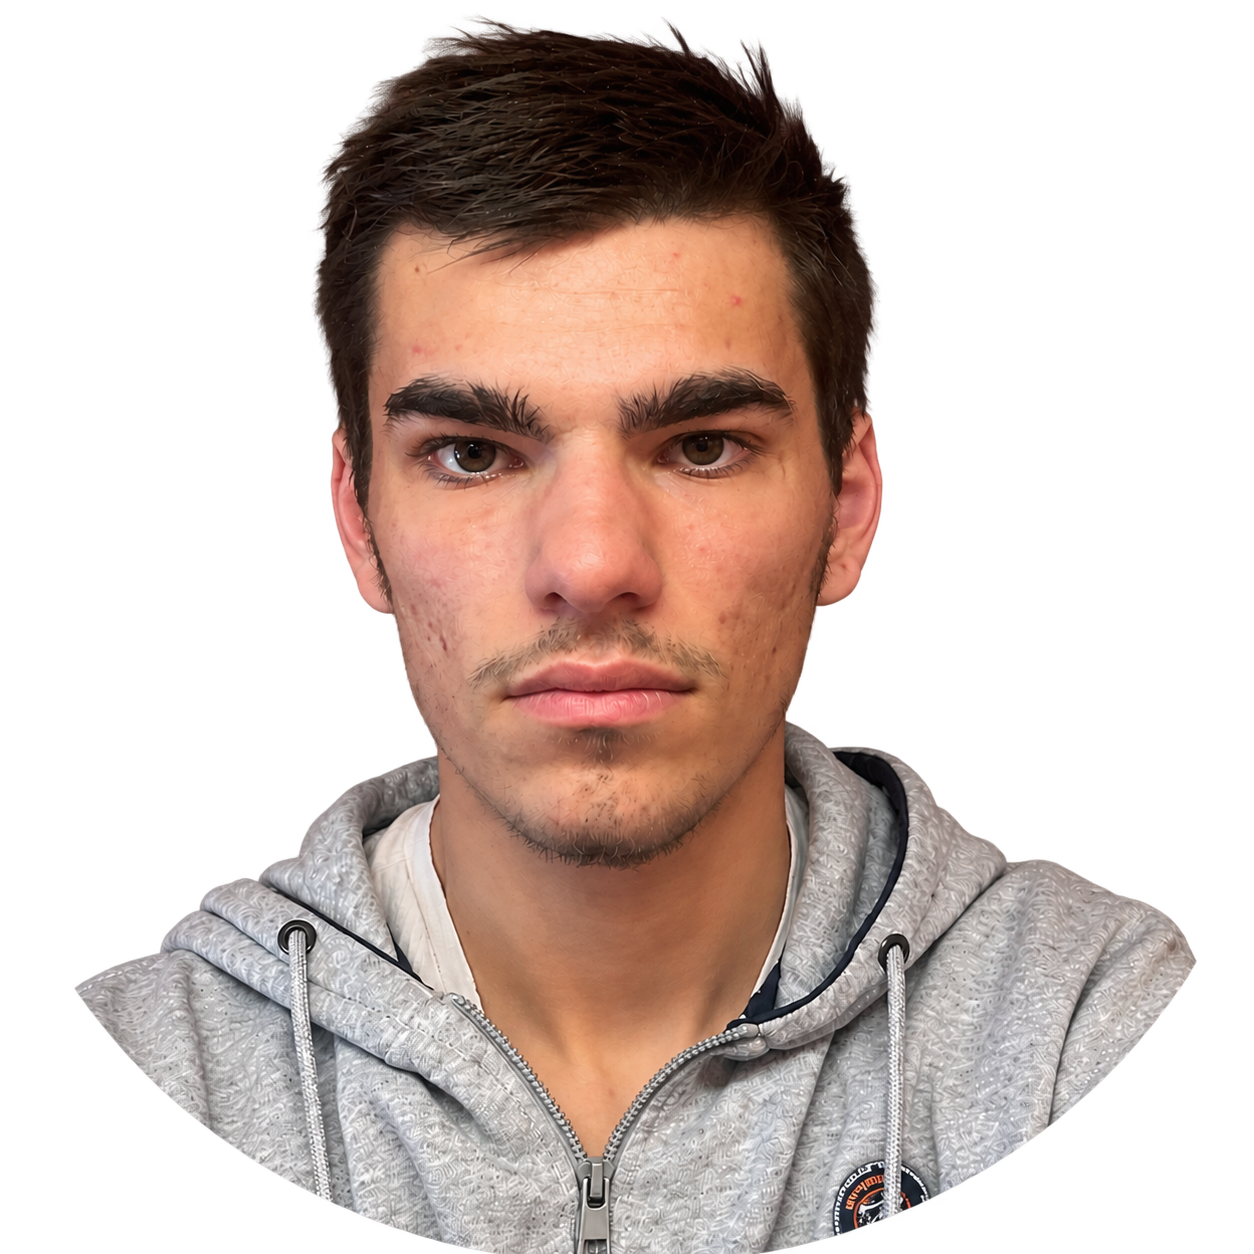
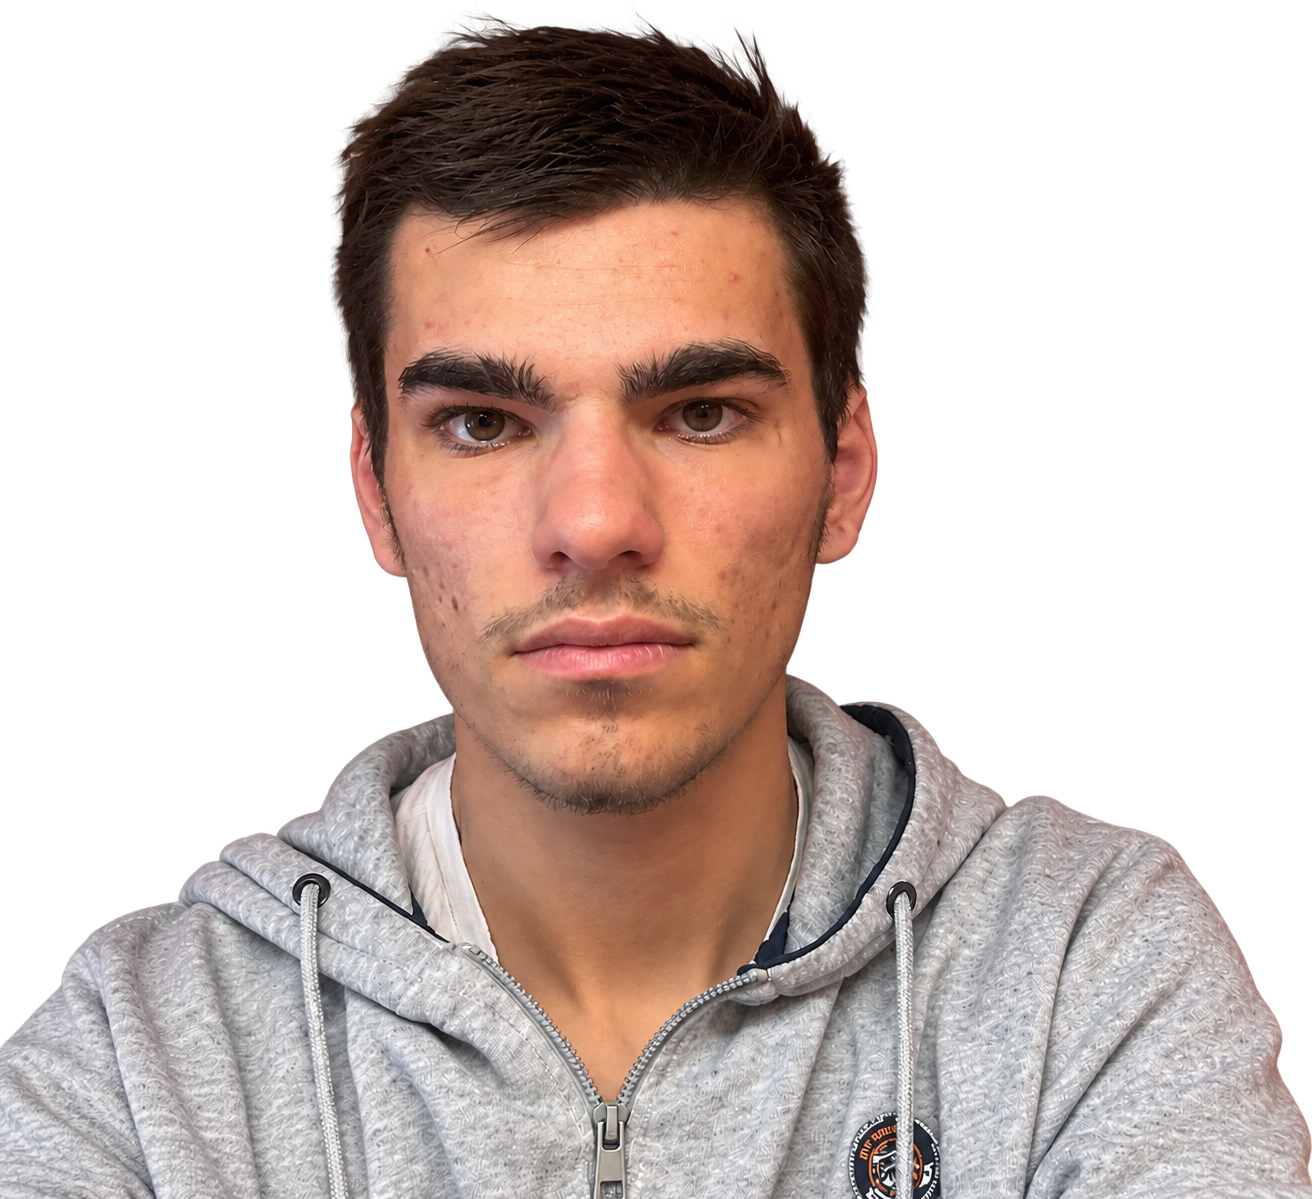
Replace Adam portrait with preferred photo

diff --git a/app/page.tsx b/app/page.tsx
@@ -46,7 +46,7 @@ export default function Home() {
           <p className="direct-note"><MessageCircle size={18} /> Vous travaillerez directement avec moi, du premier message à la livraison.</p>
         </div>
         <div className="hero-portrait portrait-frame">
-          <img src="/images/adam-portrait.png" alt="Adam, créateur de STARTUP/AD" width={1254} height={1254} fetchPriority="high" />
+          <img src="/images/adam-portrait.png?v=2" alt="Adam, créateur de STARTUP/AD" width={1312} height={1199} fetchPriority="high" />
           <span className="portrait-label">Moi, c’est Adam.</span>
         </div>
         <div className="hero-note" aria-hidden="true">Je préfère apprendre<br />en faisant. ↘</div>
@@ -60,7 +60,7 @@ export default function Home() {
         <div className="about-aside">
           <p className="section-index">01 / MOI, C’EST ADAM</p>
           <div className="small-photo portrait-frame">
-            <img src="/images/adam-portrait.png" alt="Portrait d’Adam" width={1254} height={1254} loading="lazy" decoding="async" />
+            <img src="/images/adam-portrait.png?v=2" alt="Portrait d’Adam" width={1312} height={1199} loading="lazy" decoding="async" />
           </div>
           <p className="hand-note">Pas une équipe fictive.<br />Juste moi, pour l’instant.</p>
         </div>
